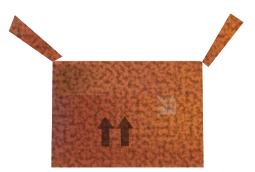
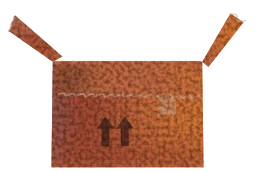
El pibe: la caja de cartón con la veta y la onda del corrugado en los cantos

diff --git a/src/lib/bestiario/arte-pibe.ts b/src/lib/bestiario/arte-pibe.ts
@@ -613,6 +613,18 @@ function cajaDeCarton(): string {
   const rnd = azar(571);
   let rayas = '';
   for (let i = 0; i < 7; i++) rayas += trazo(`M${f(-a + 1 + rnd() * 5)} ${f(-h + 9.4 + i * 1.9)} l${f(16 + rnd() * 12)} 0`, C.cartonHondo, 0.4, 0.22);
+  // La veta del corrugado, que la luz rasante del farol marca en el frente.
+  for (let x = -a + 1.2; x < a; x += 1.3) rayas += trazo(`M${f(x)} ${f(-h + 8)} L${f(x)} -0.6`, x > 0 ? C.sodio : C.cartonHondo, 0.3, x > 0 ? 0.12 : 0.18);
+  // El canto cortado de una solapa: la onda del corrugado entre las dos caras.
+  const onda = (p: P, q: P): string => {
+    const n = Math.max(3, Math.round(Math.hypot(q[0] - p[0], q[1] - p[1]) / 1.1));
+    let d = `M${f(p[0])} ${f(p[1])}`;
+    for (let i = 1; i <= n; i++) {
+      const [x, y] = [p[0] + ((q[0] - p[0]) * i) / n, p[1] + ((q[1] - p[1]) * i) / n];
+      d += ` L${f(x + (i % 2 ? 0.35 : -0.35))} ${f(y + (i % 2 ? -0.35 : 0.35))}`;
+    }
+    return trazo(d, C.papel, 0.35, 0.55);
+  };
   // La flecha de "este lado arriba", impresa en el cartón.
   const flecha = (x: number): string => forma(`M${f(x)} -11.6 l2 2.8 l-1.1 0 l0 4 l-1.8 0 l0 -4 l-1.1 0 Z`, C.negro, 0.55);
   const solapa = (id: string, pts: readonly P[], adentro: string): string => enmascarado(id, poli(pts), forma(poli(pts), C.carton) + adentro);
@@ -629,7 +641,8 @@ function cajaDeCarton(): string {
     solapa('p-pibe-caja-solapa-f', solapaF, nube(0, -h + 4, 16, 3, C.carton, 's', 0.5) + nube(-a + 3, -h + 4, 5, 5, C.negro, 's', 0.35) + nube(a - 3, -h + 3, 4, 4, C.sodio, 's', 0.35)) +
     trazo(`M${-a + 0.6} ${-h + 0.2} L${a - 0.6} ${-h + 0.2}`, C.carton, 0.8, 0.8) +
     solapa('p-pibe-caja-solapa-i', solapaI, nube(-a - 4, -h - 4, 5, 3, C.cartonHondo, 's', 0.8) + nube(-a - 8, -h - 9, 3, 1.4, C.tiza, 's', 0.4)) +
-    solapa('p-pibe-caja-solapa-d', solapaD, nube(a + 6, -h - 6, 3, 5, C.sodio, 's', 0.6) + nube(a + 2, -h - 1, 2, 2, C.cartonHondo, 's', 0.6));
+    solapa('p-pibe-caja-solapa-d', solapaD, nube(a + 6, -h - 6, 3, 5, C.sodio, 's', 0.6) + nube(a + 2, -h - 1, 2, 2, C.cartonHondo, 's', 0.6)) +
+    onda(solapaI[1]!, solapaI[2]!) + onda(solapaD[1]!, solapaD[2]!) + onda([-a + 1.2, -h + 7.4], [a - 1, -h + 8]);
   // El canto de cartón cortado no se rasga: la caja es la caja, no un recorte.
   return conGrano(foto);
 }
